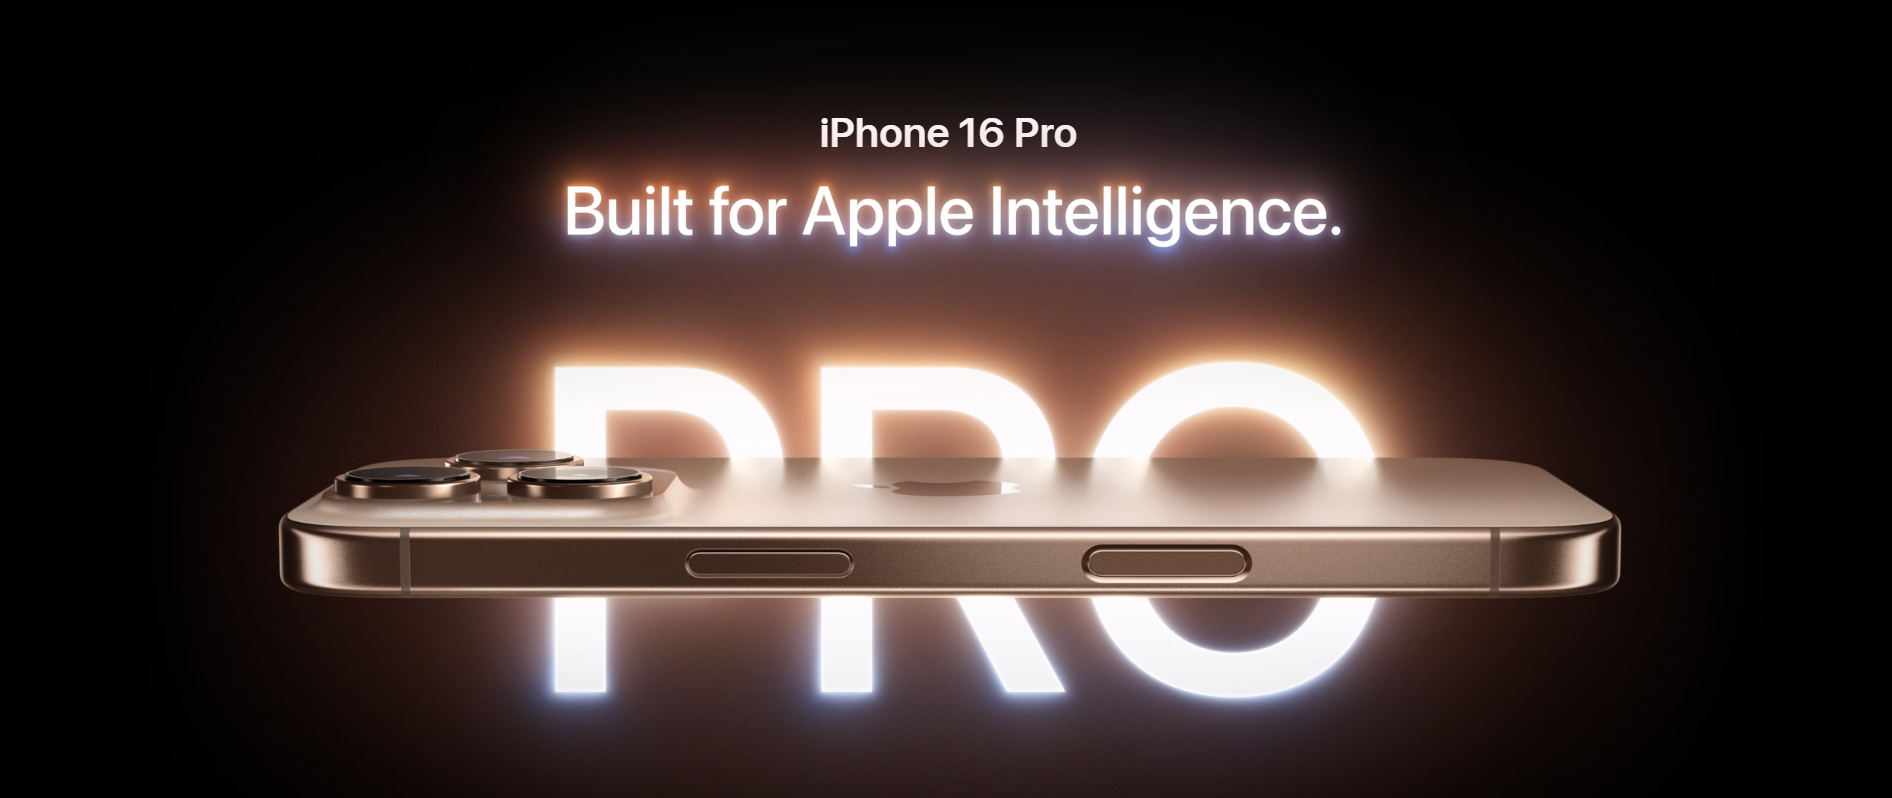
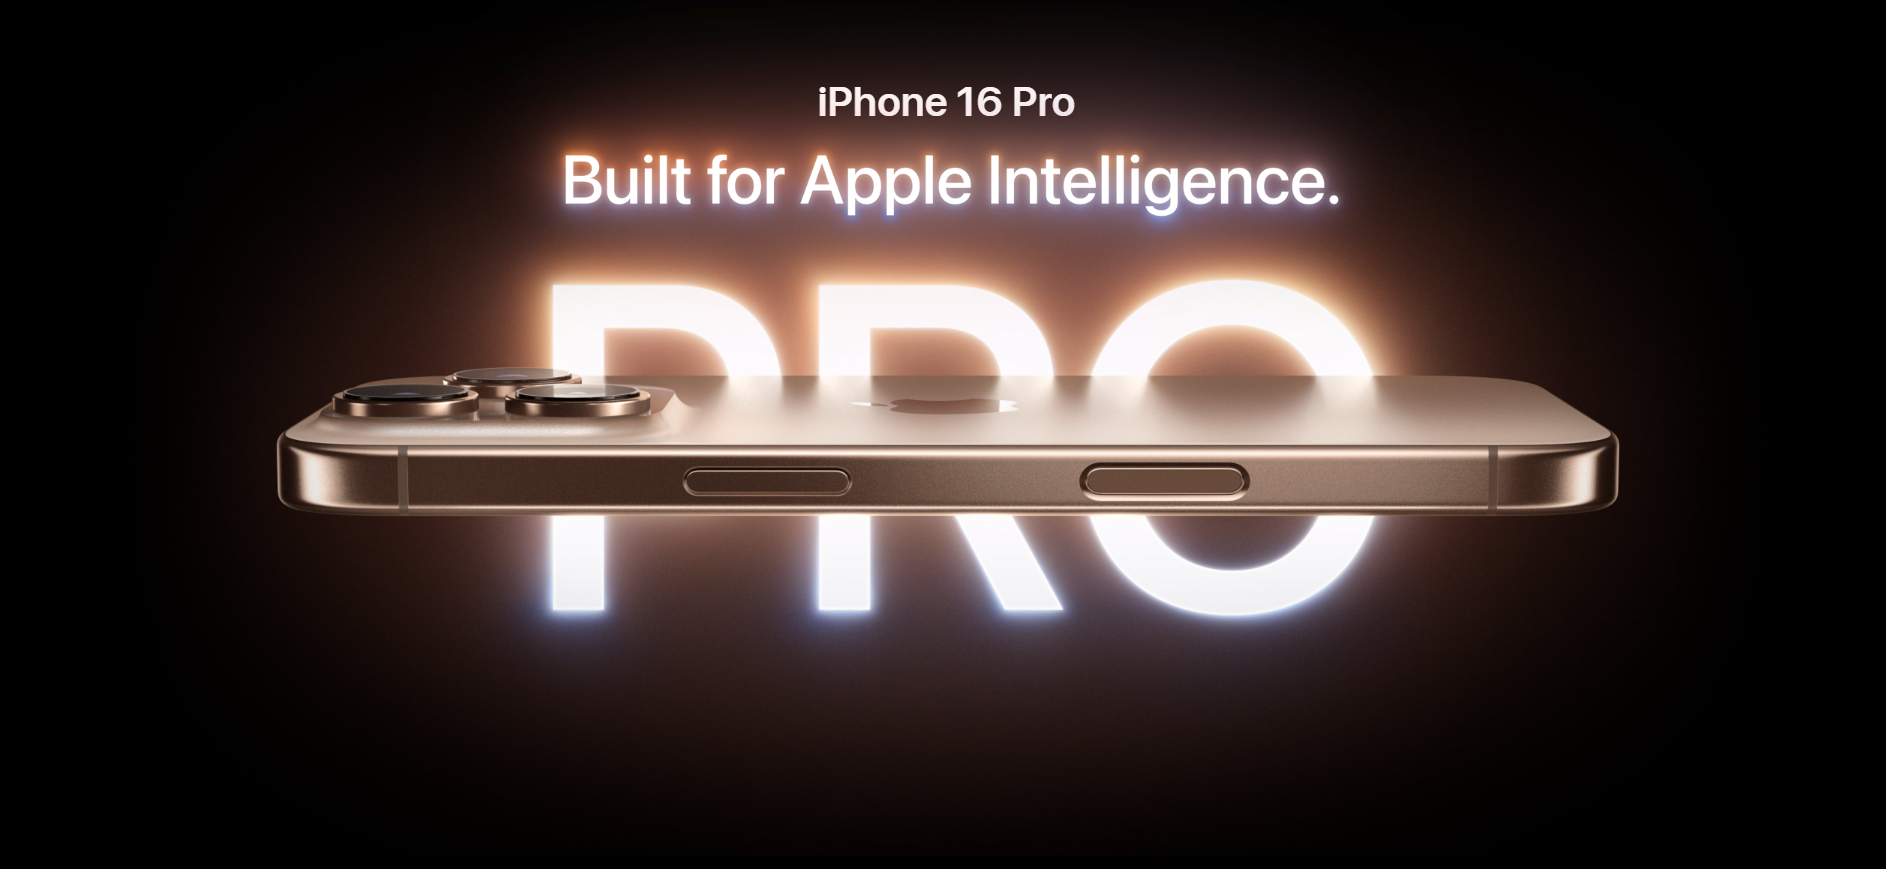
picture and text below it added

diff --git a/index.html b/index.html
@@ -43,8 +43,17 @@
         <nav id="nav2" class="navbar navbar-expand-lg" style="background-color: rgb(27, 27, 27);">
             <p class="navbar-brand" style="color: white;">Get $170–$630 in credit toward iPhone 16 or iPhone 16 Pro when you trade in iPhone 12 or higher</p>
         </nav>
-        <div class="container">
-            <img src="pics/pic1.png" alt="iPhone 16 Pro Max" class="img-fluid" style="width: 100%; height: auto;">
+        <div id="welcome" class="container">
+            <div>
+                <img src="pics/pic1.png" alt="iPhone 16 Pro Max" class="img-fluid" style="width: 100%; height: auto;">
+            </div>
+            <div id="above">
+                <button class="btn btn-primary rounded-pill">Buy</button>
+            </div>
+            <div id="below" >
+                <p style="font-size: 17px;">From $999 or $41.62/mo. for 24 mo.</p>
+                <p class="muted">Apple Intelligence available now</p>
+            </div>
         </div>
     </body>
 

diff --git a/styles.css b/styles.css
@@ -18,3 +18,27 @@ body {
 #nav1 img {
     margin-top: 5px;
 }
+#welcome {
+    font-size: 20px;
+    text-align: center;
+    margin-top: 20px;
+}
+#above {
+    position: relative;
+    top: -4em;
+}
+#below {
+    position: relative;
+    top: -3em;
+    color:white;
+    font: bold;
+}
+
+#below p{
+    margin-bottom: 0px;
+    font-size: 15px;
+}
+
+.muted{
+    color: #9c9c9c;
+}
